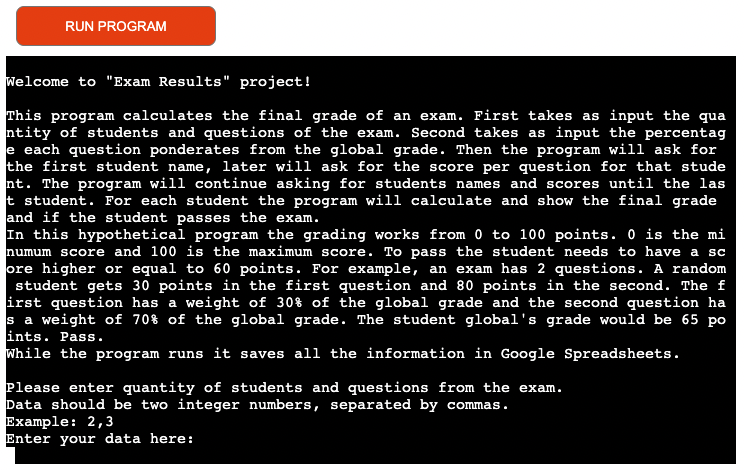
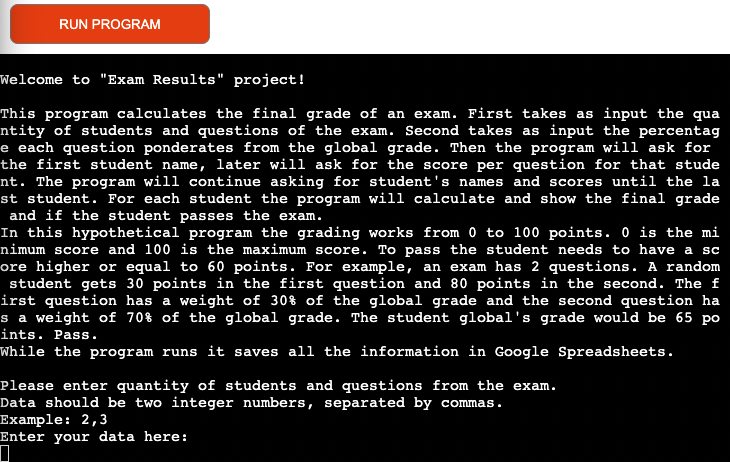
debugging

Changed region(s): [[0.0, 0.0, 1.0, 1.0]]

diff --git a/run.py b/run.py
@@ -161,7 +161,7 @@ def get_students_name(number_name):
     """
     while True:
         print(f"Please enter the name of the student {number_name}")
-        print("The name must only contain letters")
+        print("The name must only contain letters.")
         student_name = input("Enter the name:\n")
         if validate_name(student_name):
             print("The name is valid!")

diff --git a/README.md b/README.md
@@ -21,45 +21,81 @@ Responsive on all device sizes and has interactive elements.
     - Welcomes the user to the program "Exam Results".
 
 ![Welcome message](/assets/readme-images/welcome_message.png)
-- Home Page
+- Introduction
 
-    - Includes a professional photo of MaTT.
-    - Includes a short phrase about music.
-    - This will guide the user to a first approximation and introduction of what MaTT has to offer as a DJ.
+    - Explains what te program do.
+    - Explains the inputs needed.
+    - Explains the outputs of the program.
+    - Gives an example of what to expect.
+    - Let the user know that all the information is momentary saved in google spreadsheets while the program is running.
 
-![Home](/assets/readme-images/home.png)
-- Bio
+![Introduction](/assets/readme-images/introduction.png)
+- First Input: Number of students and questions from the exam.
 
-    - Includes nationality and residence of MaTT.
-    - Gives a brief description of the journey of MaTT as a DJ.
-    - Gives an explanation of what makes MaTT a special DJ, what kind of playing style he offers and what he is looking forward to attempting inside the music industry.
+    - Ask the user to input the number of students that took the exam.
+    - Ask the user to input the number of questions of the exam.
+    - Explain how the input must be; 2 integers separated by comma.
+    - Gives an example of how the input must me.
+    - Shows the place for the input
 
-![Bio](/assets/readme-images/bio.png)
-- Media
+![First Input: Number of students and questions from the exam](/assets/readme-images/first_input.png)
+- Output from first Input.
 
-    - This section works as an audiovisual portfolio that allows the user to listen and watch different music sets from MaTT.
-    - The media shown in this section also works as a link to the music social-media of MaTT, Soundcloud and Youtube.
-    - Finally the user will actually listen and watch what Matt was expressing with words in the Bio, in case of liking it the user will be able to go to the different social-media or contact him directly in the form from the next section.
+    - For this scenario the input was: 2 students and 2 questions for the exam. 2,2
+    - Output message for valid data.
+    - Let the user know that the data is being updated in the Quantity, Grade and Ponderation worksheets.
+    - Let the user know that the data was succsesfully updated to worksheets.
+    - Program updates quantity worksheet with Number of Students:2 and Number of Questions:2.
+    - Program updates grade worksheet with title for 2 questions: "Question 1 (xpts)" and "Question 2 (xpts)". In this worksheet there is also the title for Student Name because if will will up later with the different students names and scores of each one of them for each question of the exam.
+    - Program updates ponderation worksheet with title for 2 questions: "Question 1 (%pts)" and "Question 2 (%pts)". The ponderation worksheet will not be updated with Student Name since this % per questions are the same for all the students.
 
-![Media Soundcloud](/assets/readme-images/media_1.png)
-![Media Youtube](/assets/readme-images/media_2.png)
-- Contact
+![First Output: Valid data and data saved to worksheets](/assets/readme-images/first_output.png)
+![Quantity worksheet updated](/assets/readme-images/quantity_updated.png)
+![Grade worksheet updated](/assets/readme-images/grade_updated.png)
+![Ponderation worksheet updated](/assets/readme-images/ponderation_updated.png)
+- Second Input: % of ponderation of each question of the exam.
 
-    - This section works as a tool for connecting the user directly with MaTT.
-    - Requires Full Name, Email and Comments/Ideas to be able to push forward the information to MaTT.
-    - An image of a Pioneer XDJ-RX3 is shown at the end of the page as a hint of what MaTT likes/uses to play. Also used to give positive visual feedback for the user.
+    - Ask the user to input the "%" of ponderation of each question of the total grade of the exam.
+    - Ask the user to input the number of "%" depending on how much questions the user initialy input.
+    - Explain how the input must be in this case 2 integers separated by comma. If the user input initialy 3 questions the program will ask the user to input 3 different "%".
+    - Gives an example of how the input must me explaining an hipotetical case.
+    - Shows the place for the input.
+    - For all cases the add of all "%" as input must add 100%, for this case the 2 "%" must add 100%. 
 
-![Contact](/assets/readme-images/contact.png)
-- Footer 
+![Second Input: % of each of the input questions from the exam](/assets/readme-images/second_input.png)
+- Output from Second Input.
 
-    - The Footer includes 3 icons with a direct link to MaTT social-media. Soundcloud, Youtube and Instagram. Links will open in a new tab.
-    - This section works as a tool for connecting the user directly with MaTT through Soundcloud, Youtube or Instagram.
-    - The footer is fixed to the page as the user scrolls, this will help the user in any moment of decision of contact or follow to be there as a direct access.
+    - For this scenario the input was: percentage 1 = 40% and percentage 2 = 60% So: 40,60
+    - Output message for valid data.
+    - Let the user know that the data is being updated in the Ponderation worksheet.
+    - Let the user know that the data was succsesfully updated to worksheets.
+    - Program updates ponderation worksheet with "%" for 2 questions: "40" and "60". The ponderation worksheet will not be updated anymore.
 
-![Footer](/assets/readme-images/footer.png)
+![Second Output: Valid data and data saved to worksheets](/assets/readme-images/second_output.png)
+![Ponderation worksheet updated](/assets/readme-images/ponderation_updated_2.png)
+- Third Input: Name of first student.
+
+    - Ask the user to input the name of the first student.
+    - Ask the user to input the name of the student with just alphabetical characters. 
+    - Shows the place for the input.
+  
+![Third Input: Name of first student](/assets/readme-images/third_input.png)
+- Output from Second Input.
+
+    - For this scenario the input was: percentage 1 = 40% and percentage 2 = 60% So: 40,60
+    - Output message for valid data.
+    - Let the user know that the data is being updated in the Ponderation worksheet.
+    - Let the user know that the data was succsesfully updated to worksheets.
+    - Program updates ponderation worksheet with "%" for 2 questions: "40" and "60". The ponderation worksheet will not be updated anymore.
+
+![Second Output: Valid data and data saved to worksheets](/assets/readme-images/second_output.png)
+![Ponderation worksheet updated](/assets/readme-images/ponderation_updated_2.png)
+
 ## Features Left to Implement
 
 - Allow the user to download the google spreadsheets with all the input and output information.
+- Combine quantity and ponderation worksheets together.
+- Combine grade and results worksheets together.
 
 ## User Experience (UX)
 
@@ -125,7 +161,7 @@ Responsive on all device sizes and has interactive elements.
 
 - The site was deployed to heroku.com using Code Institue's mock terminal for Heroku.
 
-    1.  Each input in the run.py must end with "\n" so the input line for each input appears in heroku.
+    1. Each input in the run.py must end with "\n" so the input line for each input appears in heroku.
 	2. All the dependencies instaled through the Code Institute template and both gspread and google-auth in Github must be instaled in heroku also for the program to work. For this in the terminal "pip3 freeze > requirements.txt" must be typed. Requirement.txt bus be correct spelled because heroku while loading the program will search for the dependencies in this folder to install them and then after allowing the code to run.
 	3. Git add . command plus git commit -m "Add requirements for deployment." and git push comands must be input to the terminal.
 	4. Create account in heroku.com
